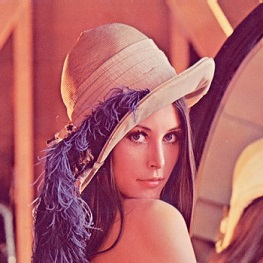
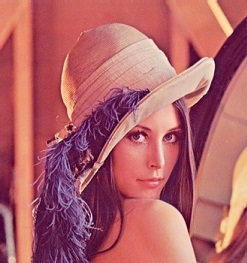
添加番外篇5，更改结构 2018年11月22日

diff --git a/07. 图像几何变换/cv2_geometric_transformations.py b/07. 图像几何变换/cv2_geometric_transformations.py
@@ -1,8 +1,8 @@
-# More: http://ex2tron.wang
+# ex2tron's blog:
+# http://ex2tron.wang
+
 
 import cv2
-import numpy as np
-import matplotlib.pyplot as plt
 
 img = cv2.imread('drawing.jpg')
 
@@ -15,7 +15,18 @@ cv2.imshow('shrink', res), cv2.imshow('zoom', res2)
 cv2.waitKey(0)
 
 
-# 2.平移图片
+# 2.翻转图片
+import numpy as np
+
+# 参数2=0：垂直翻转(沿x轴)，参数2>0: 水平翻转(沿y轴)
+# 参数2<0: 水平垂直翻转
+dst = cv2.flip(img, -1)
+# np.hstack: 横向并排，对比显示
+cv2.imshow('flip', np.hstack((img, dst)))  # np.hstack: 横向并排，对比显示
+cv2.waitKey(0)
+
+
+# 3.平移图片
 rows, cols = img.shape[:2]
 # 定义平移矩阵，需要是numpy的float32类型
 # x轴平移100，y轴平移50
@@ -26,33 +37,9 @@ cv2.imshow('shift', dst)
 cv2.waitKey(0)
 
 
-# 3.45°旋转图片并缩小一半
-M = cv2.getRotationMatrix2D((cols / 2, rows / 2), 45, 0.5)
+# 4.45°顺时针旋转图片并缩小一半
+M = cv2.getRotationMatrix2D((cols / 2, rows / 2), -45, 0.5)
 dst = cv2.warpAffine(img, M, (cols, rows))
 
 cv2.imshow('rotation', dst)
 cv2.waitKey(0)
-
-
-# 4.翻转图片
-# 参数2=0：垂直翻转(沿x轴)，参数2>0: 水平翻转(沿y轴)
-# 参数2<0: 水平垂直翻转
-dst = cv2.flip(img, 1)
-# np.hstack: 横向并排，对比显示
-cv2.imshow('flip', np.hstack((img, dst)))  # np.hstack: 横向并排，对比显示
-cv2.waitKey(0)
-
-
-# 5.仿射变换
-# 变换前的三个点
-pts1 = np.float32([[50, 65], [150, 65], [210, 210]])
-# 变换后的三个点
-pts2 = np.float32([[50, 100], [150, 65], [100, 250]])
-
-# 生成变换矩阵，维数：2*3
-M = cv2.getAffineTransform(pts1, pts2)
-dst = cv2.warpAffine(img, M, (cols, rows))
-
-plt.subplot(121), plt.imshow(img), plt.title('input')
-plt.subplot(122), plt.imshow(dst), plt.title('output')
-plt.show()

diff --git a/番外篇05. 仿射变换和透视变换原理/cv2_affine_perspective_transformation.py b/番外篇05. 仿射变换和透视变换原理/cv2_affine_perspective_transformation.py
@@ -1,11 +1,34 @@
-# More: http://ex2tron.wang
+# ex2tron's blog:
+# http://ex2tron.wang
+
 
 import cv2
 import numpy as np
 import matplotlib.pyplot as plt
 
-img = cv2.imread('card.jpg')
+img = cv2.imread('drawing.jpg')
 rows, cols = img.shape[:2]
+
+
+# 1.仿射变换
+
+# 变换前的三个点
+pts1 = np.float32([[50, 65], [150, 65], [210, 210]])
+# 变换后的三个点
+pts2 = np.float32([[50, 100], [150, 65], [100, 250]])
+
+# 生成变换矩阵，维数：2*3
+M = cv2.getAffineTransform(pts1, pts2)
+dst = cv2.warpAffine(img, M, (cols, rows))
+
+plt.subplot(121), plt.imshow(img), plt.title('input')
+plt.subplot(122), plt.imshow(dst), plt.title('output')
+plt.show()
+
+
+# 2.透视变换
+
+img = cv2.imread('card.jpg')
 
 # 原图中卡片的四个角点
 pts1 = np.float32([[148, 80], [437, 114], [94, 247], [423, 288]])
@@ -14,7 +37,7 @@ pts2 = np.float32([[0, 0], [320, 0], [0, 178], [320, 178]])
 
 # 生成透视变换矩阵
 M = cv2.getPerspectiveTransform(pts1, pts2)
-# 进行透视变换
+# 进行透视变换，参数3是目标图像大小
 dst = cv2.warpPerspective(img, M, (320, 178))
 
 # matplotlib默认以RGB通道显示，所以需要用[:, :, ::-1]翻转一下

diff --git a/04. 图像基本操作/cv2_basic_operations.py b/04. 图像基本操作/cv2_basic_operations.py
@@ -1,31 +1,32 @@
-# More: http://ex2tron.wang
+# ex2tron's blog:
+# http://ex2tron.wang
 
 import cv2
 
 img = cv2.imread('lena.jpg')
 
 # 1.获取像素的值
-px = img[100, 100]
-print(px)  # [119 108 201]
+px = img[100, 90]
+print(px)  # [103 98 197]
 
 # 只获取蓝色blue通道的值
-px_blue = img[100, 100, 0]
-print(px_blue)  # 119
+px_blue = img[100, 90, 0]
+print(px_blue)  # 103
 
 
 # 2.修改像素的值
-img[100, 100] = [255, 255, 255]
-print(img[100, 100])  # [255 255 255]
+img[100, 90] = [255, 255, 255]
+print(img[100, 90])  # [255 255 255]
 
 
 # 3.图片形状
-print(img.shape)  # (263, 263, 3)
-# 形状中包括高度、宽度和通道数
+print(img.shape)  # (263, 247, 3)
+# 形状中包括行数、列数和通道数
 height, width, channels = img.shape
 # img是灰度图的话：height, width = img.shape
 
 # 总像素数
-print(img.size)  # 263*263*3=207507
+print(img.size)  # 263*247*3=194883
 # 数据类型
 print(img.dtype)  # uint8
 

diff --git a/05. 颜色空间转换/cv2_changing_color_space.py b/05. 颜色空间转换/cv2_changing_color_space.py
@@ -1,7 +1,7 @@
-# More: http://ex2tron.wang
+# ex2tron's blog:
+# http://ex2tron.wang
 
 import cv2
-import numpy as np
 
 img = cv2.imread('lena.jpg')
 
@@ -18,6 +18,8 @@ flags = [i for i in dir(cv2) if i.startswith('COLOR_')]
 print(flags)
 
 # 蓝色的HSV值
+import numpy as np
+
 blue = np.uint8([[[255, 0, 0]]])
 hsv_blue = cv2.cvtColor(blue, cv2.COLOR_BGR2HSV)
 print(hsv_blue)  # [[[120 255 255]]]

diff --git a/番外篇04. Otsu阈值法/cv2_otsu_thresholding.py b/番外篇04. Otsu阈值法/cv2_otsu_thresholding.py
@@ -1,4 +1,5 @@
-# More: http://ex2tron.wang
+# ex2tron's blog:
+# http://ex2tron.wang
 
 import cv2
 from matplotlib import pyplot as plt

diff --git a/06. 阈值分割/cv2_thresholding.py b/06. 阈值分割/cv2_thresholding.py
@@ -1,4 +1,5 @@
-# More: http://ex2tron.wang
+# ex2tron's blog:
+# http://ex2tron.wang
 
 import cv2
 import matplotlib.pyplot as plt

diff --git a/05. 颜色空间转换/cv2_exercises1.py b/05. 颜色空间转换/cv2_exercises1.py
@@ -1,4 +1,5 @@
-# More: http://ex2tron.wang
+# ex2tron's blog:
+# http://ex2tron.wang
 
 import cv2
 import numpy as np

diff --git a/08. 绘图功能/cv2_drawing_functions.py b/08. 绘图功能/cv2_drawing_functions.py
@@ -1,4 +1,5 @@
-# More: http://ex2tron.wang
+# ex2tron's blog:
+# http://ex2tron.wang
 
 import cv2
 import numpy as np

diff --git a/08. 绘图功能/cv2_exercise1.py b/08. 绘图功能/cv2_exercise1.py
@@ -1,4 +1,5 @@
-# More: http://ex2tron.wang
+# ex2tron's blog:
+# http://ex2tron.wang
 
 import cv2
 import numpy as np

diff --git a/09. 图像混合/cv2_image_blending.py b/09. 图像混合/cv2_image_blending.py
@@ -1,4 +1,5 @@
-# More: http://ex2tron.wang
+# ex2tron's blog:
+# http://ex2tron.wang
 
 import cv2
 import numpy as np

diff --git a/番外篇01. 代码性能优化/cv2_optimization.py b/番外篇01. 代码性能优化/cv2_optimization.py
@@ -1,4 +1,5 @@
-# More: http://ex2tron.wang
+# ex2tron's blog:
+# http://ex2tron.wang
 
 import cv2
 import numpy as np

diff --git a/番外篇03. 滑动条/cv2_trackbar.py b/番外篇03. 滑动条/cv2_trackbar.py
@@ -1,4 +1,5 @@
-# More: http://ex2tron.wang
+# ex2tron's blog:
+# http://ex2tron.wang
 
 import cv2
 import numpy as np
